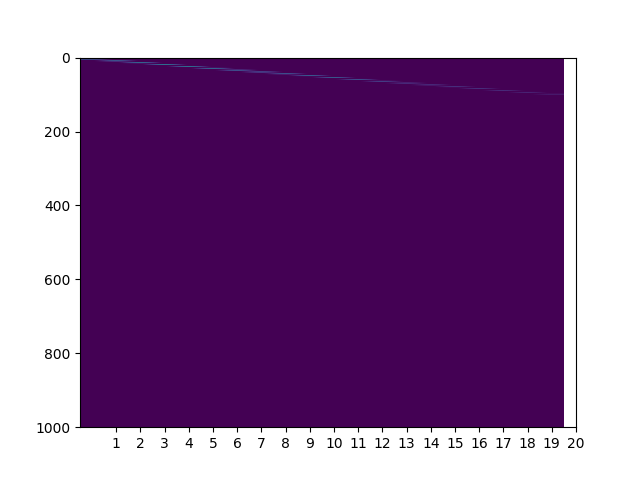
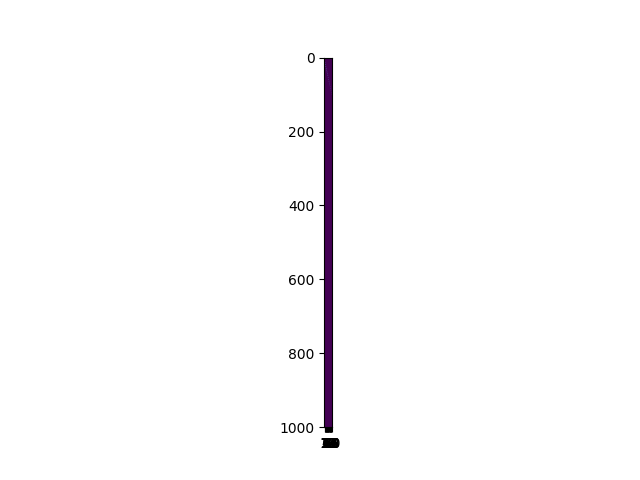
test

diff --git a/MCTDCRcode/MCNP-MATRIX/matrice.py b/MCTDCRcode/MCNP-MATRIX/matrice.py
@@ -98,7 +98,7 @@ plt.savefig('matrice/matrice.png')
 #m = matrice_p[0:15][:]
 #print(m)
 #yl = e[15]
-plt.imshow(matrice_p[1:][:],aspect='auto')
+plt.imshow(matrice_p[1:][:],aspect='equal')
 plt.xticks(matrice_p[0][:])
 #plt.ylim(0,yl)
 #plt.yticks(e[0:15])
